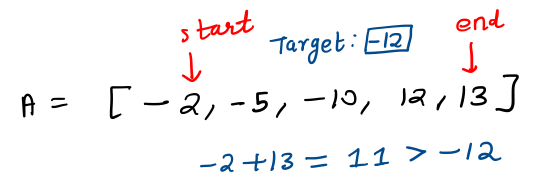
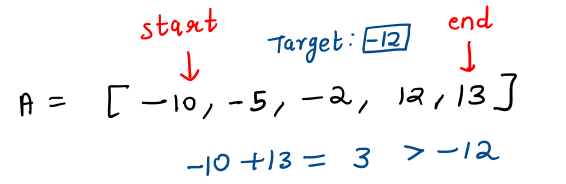
Minor fixes

diff --git a/README.md b/README.md
@@ -7,26 +7,26 @@ Given an array of **nums** of **n** integers, are there elements *a*, *b*, *c* i
 The solution set must not contain duplicate triplets.
 
 ### Example
-Given array **nums** = [-1, 0, 1, 2, -1, -4],
+Given array `nums = [-1, 0, 1, 2, -1, -4]`,
 
 A solution set is:
 
-[
+`[
   [-1, 0, 1],
   [-1, -1, 2]
-]
+]`
 
 ## Solution Approach 1 - Brute Force (Time Limit Exceeded)
 Consider all possible triplets using 3 nested loops, and if the sum of the triplet equals 0, add it to a set of vector (after sorting those 3 numbers). This will make sure that the final result doesn't contain any duplicate triplets.
 
 ### Time Complexity
-This solution takes a time complexity of `O(N^3 log N)`.
+This solution takes a time complexity of `O(N^3 log N)` since insertion in the set will take `O(log N)` time.
 
 ## Solution Approach 2 - Two Pointers
 ### Intuition
 Let's say we fixed one of the numbers in the triplets as `x` and other numbers be `y` and `z`. 
 Thus,
-*y + z = -x*.
+`y + z = -x`.
 
 If we had sorted the elements in the given array, we can easily find a pair with given sum value using a `two-pointer` approach.
 
@@ -38,15 +38,15 @@ Considering the sum of values at these 2 positions:
 - Greater than the `target`: Shift the `end` pointer to the left.
 - Equals the `target`: Congrats! You've found the pair.
 
-Consider the given array (sorted) as 
+Let us understand the 2-pointer approach to find pair with given sum. Consider the given array (sorted) as 
 
-A = [-2, -5, -10, 12, 13]
+`A = [-10, -5, -2, 12, 13]`
 
 and you need to find a pair with sum = -12.
 
 ![Step 1](images/ap2-step1.png)
 
-Initially, sum = 11 which is more than -12, thus shifting the end pointer to left.
+Initially, sum = 3 which is more than -12, thus shifting the end pointer to left.
 
 ![Step 2](images/ap2-step2.png)
 
@@ -61,37 +61,35 @@ We still need to make sure that we do not get duplicate triplets, and we do not 
 ## Algorithm
 Let's take an example to develop the algorithm.
 
-A = [-2, -2, -1, -1, 0, 1, 1, 2, 2]
+`A = [-2, -2, -1, -1, 0, 1, 1, 2, 2]`
 
-Let's say we were to consider first -2 as fixed. Now, we need to find pairs with sum = 2 in the remaining array.
-
-i.e. pair with **target = 2** in `A' = [-2, -1, -1, 0, 1, 1, 2, 2]`
+Let's say we were to consider first -2 as fixed. Now, we need to find pairs with sum = 2 in the remaining array. <br/>
+i.e. pairs with **target = 2** in `A' = [-2, -1, -1, 0, 1, 1, 2, 2]`
 
 To find multiple pairs, we can do the following modification:
-
+<br/>
 Whenever pair sum = target, shift both start and end pointers to right and left respectively.
 So, we will get `(0, 2)` and `(1, 1)` as the required pairs and hence `(-2, 0, 2)` and `(-2, 1, 1)` as the corresponding triplets.
 
 Now, considering the next `-2` in the array, can we simply ignore the left part of the array?
-
+<br/>
 Exactly, because we already found all possible pairs taking elements in the left part as fixed.
-
-So, for the second -2 in the array, the array to look is just to the right of it, i.e. `A'' = [-1, -1, 0, 1, 1, 2, 2]`.
+<br/>
+So, for the second `-2` in the array, the array to look is just to the right of it, i.e. `A' = [-1, -1, 0, 1, 1, 2, 2]`.
 
 But, now how do we ensure that no duplicate triplets are present in the result?
-
+<br/>
 If we use an additional set to store the results, it will be require additional space, as well as insertion would take `O(log N)`. Can we do it more **efficiently**?
 
-Let's consider another example:
-
-B = [-2, -2, -2, 1, 1, 4, 4]
+Let's consider another example: <br/>
+`B = [-2, -2, -2, 1, 1, 4, 4]`
 
 - So, let's start with the `-2` at index `0`.
   - Let's find all pairs with sum `2`.
   - They come out to be `(-2, 4), (-2, 4), (1, 1)`. 
   - At each step, we shift both the `start` and `end` pointers since sum exactly matches target.
 
-    Could we have avoided the duplicate `(-2, 4)` getting in our way? YES.
+    Could we have avoided the duplicate `(-2, 4)` getting in our way? YES. <br/>
     See that we can simply move the `start` pointer while it matches its old value (-2) and similarly shift the `end` pointer till it matches its old value (4).
 
 - Now, let's come to the `-2` at index `1`.
@@ -101,17 +99,14 @@ B = [-2, -2, -2, 1, 1, 4, 4]
 
 From this example, we have found out a way to avoid duplicates.
 
-- We can simply move our first element of triplet to the right till it matches the previous triplets' first number. (Outer loop, fixing the first element)
-
-- Inside the inner loop, we can shift the start/end pointers till they refer to the same values.
+- We can simply move our first element of triplet to the right till it matches the previous number.
+- While finding the pair with sum equal to negation of fixed element, we can shift the start/end pointers till they refer to the same values (old start/end).
 
 ### Time Complexity
 - First of all, array is sorted incurring `O(n log n)`.
-
 - We are then fixing the first element of the triplet in the outer loop running over all the elements. 
+- In the inner loop, we find a pair with sum equals negation of number fixed in outer loop, using two-pointer approach and avoiding duplicates smartly.
 
-- In the inner loop, we find a pair with given sum using two-pointer approach and avoiding duplicates smartly.
-
-Thus, overall time complexity = `O(n^2)`
+Thus, overall time complexity = `O(nlogn + n*n)` = `O(n^2)`
 
 ### Implementation
